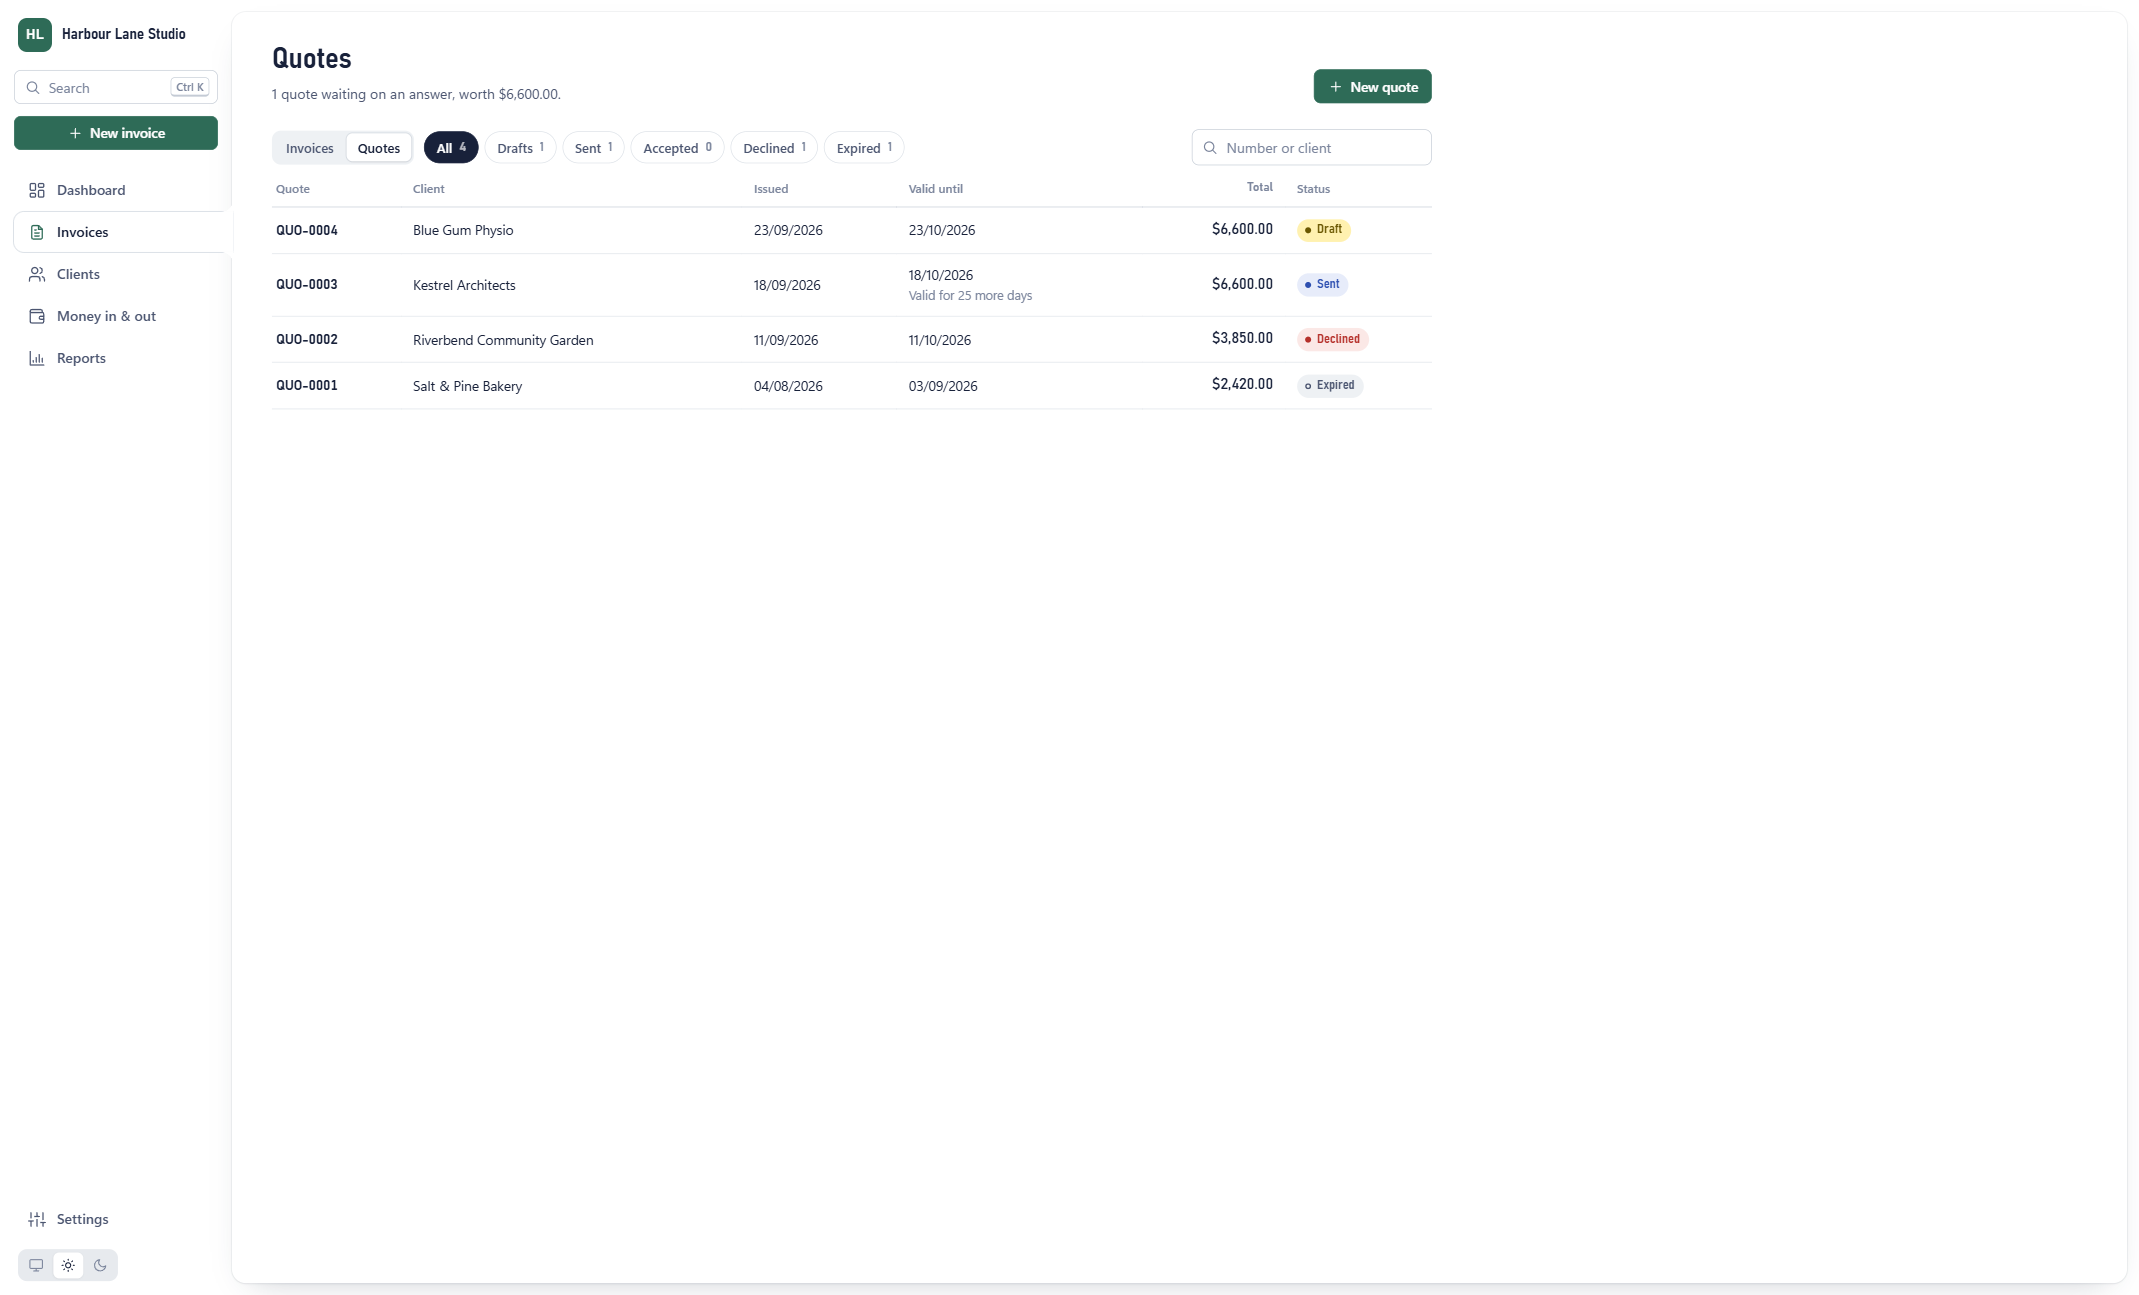
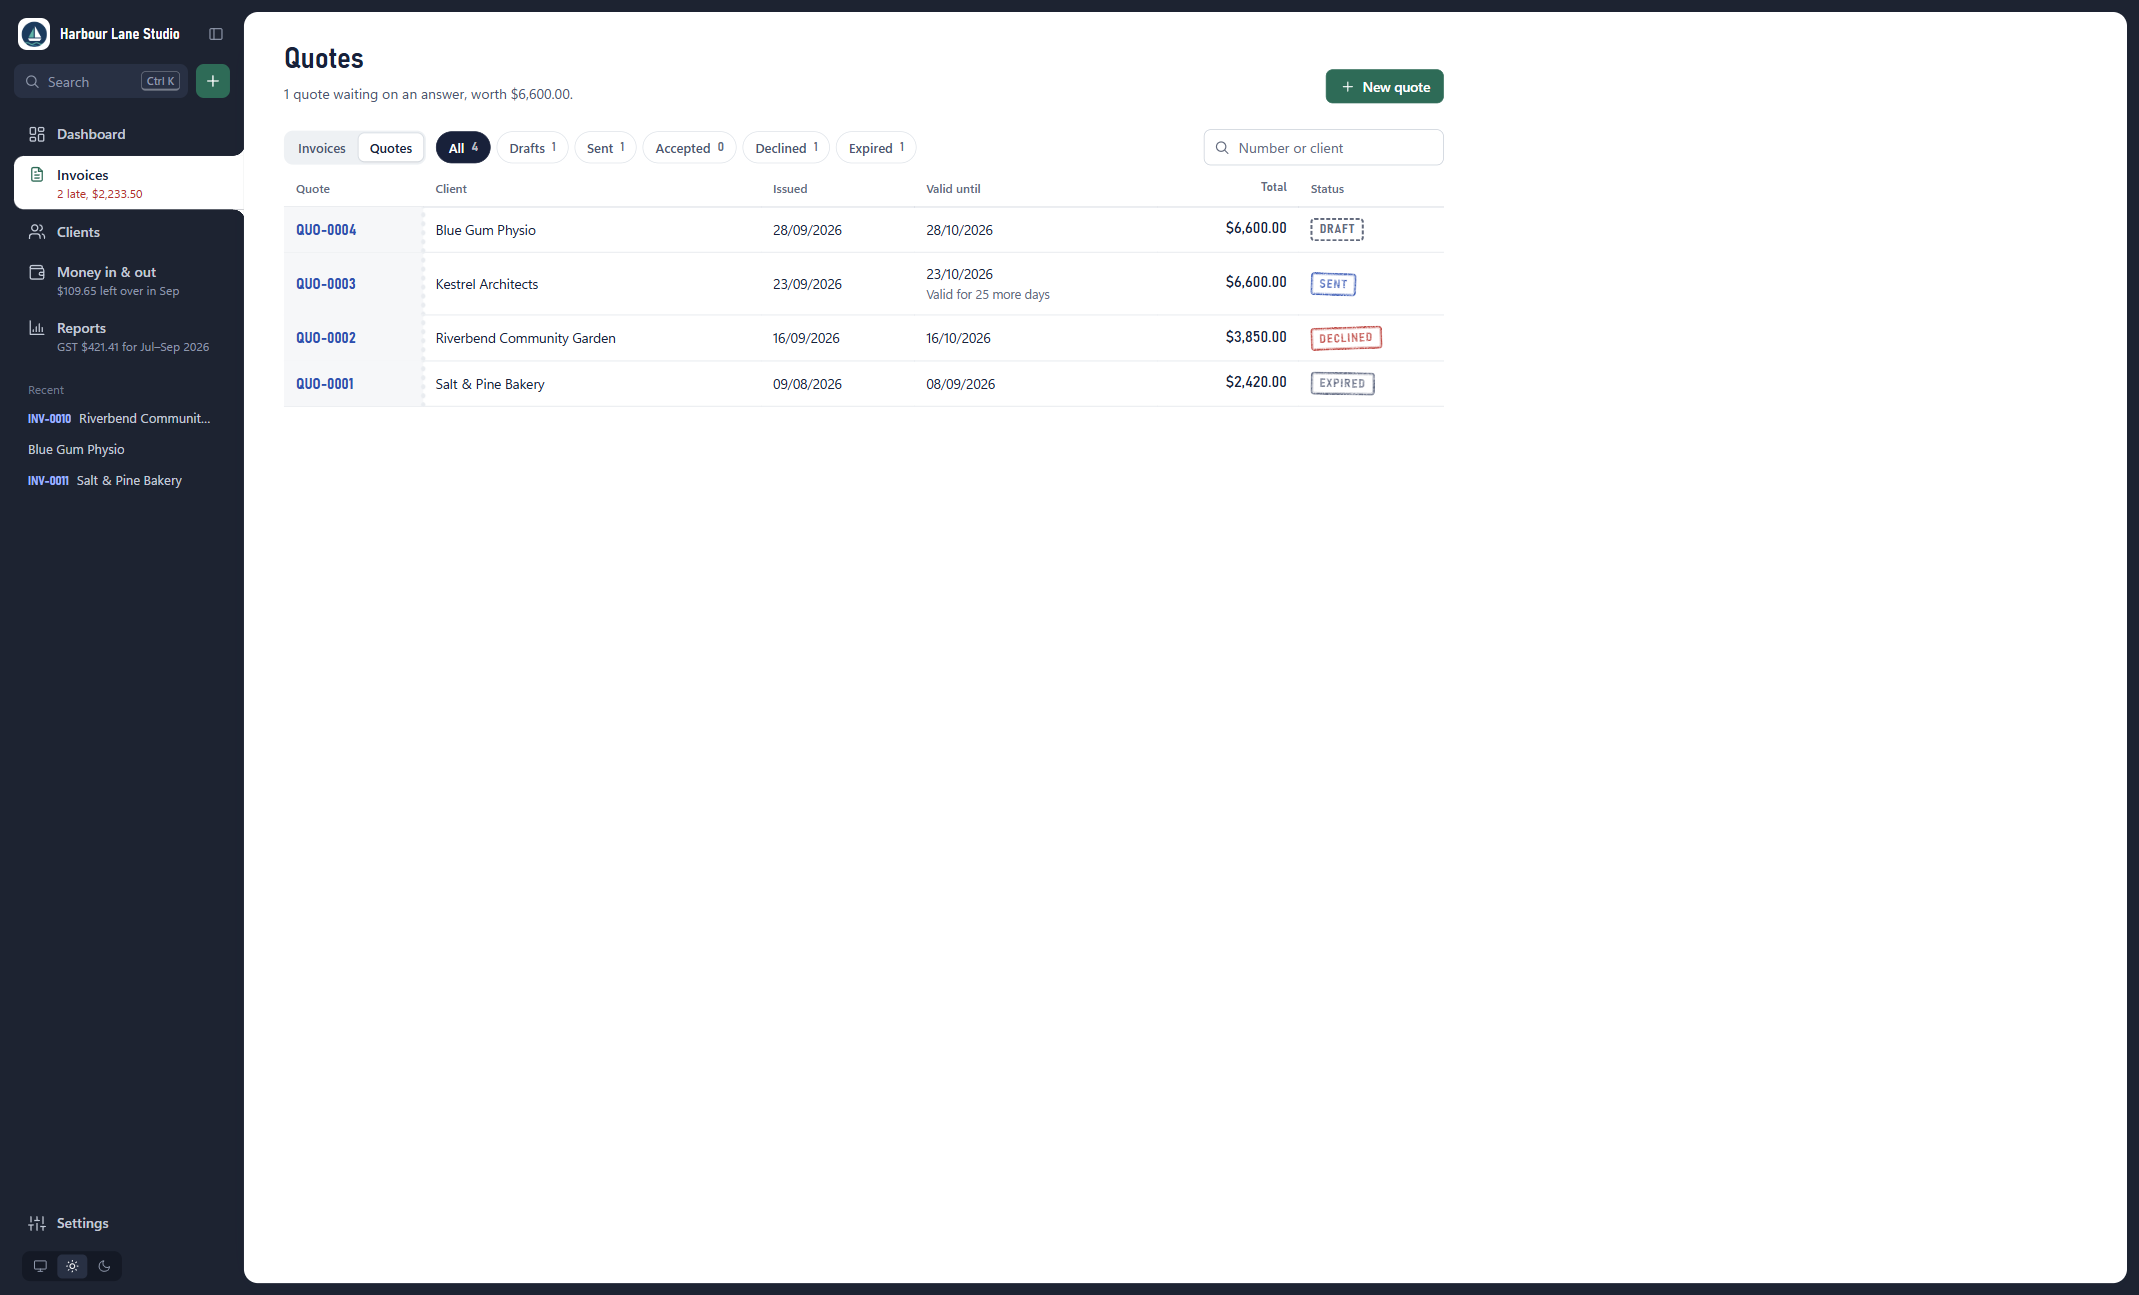
update screenshots for the new dashboard and menu

diff --git a/promo/site/index.html b/promo/site/index.html
@@ -351,14 +351,14 @@ footer { padding-block: 0 48px; display: flex; flex-wrap: wrap; justify-content:
       <div class="feature-copy">
         <span class="eyebrow">Getting paid</span>
         <h2>Know who owes you, and chase them politely</h2>
-        <p>Every invoice carries your ABN, the GST and the "Tax invoice" heading. The dashboard shows what's owed, what's overdue and your GST for the quarter.</p>
+        <p>Every invoice carries your ABN, the GST and the "Tax invoice" heading. Unpaid invoices hang on the dashboard at their due date, stamped with how late they are, above this month's cash book and your GST for the quarter.</p>
         <ul class="ticks">
           <li>Email an invoice in one click, with the PDF attached in classic Outlook</li>
           <li>Chase late payers with a friendly, firm or final reminder</li>
           <li>Quotes that turn into invoices, and invoices that repeat monthly</li>
         </ul>
       </div>
-      <img class="shot" src="img/dashboard.webp" width="1470" height="1295" alt="The dashboard showing $2,992.50 owed by clients, money in and out, profit for the financial year and GST for the July to September quarter">
+      <img class="shot" src="img/dashboard.webp" width="1470" height="1295" alt="The dashboard showing $2,992.50 owed by clients, two invoices stamped late on a rail of due dates, and September's cash book">
     </section>
 
     <section class="feature flip">
@@ -382,7 +382,7 @@ footer { padding-block: 0 48px; display: flex; flex-wrap: wrap; justify-content:
           <div><b>1B</b><span>GST on purchases</span></div>
         </div>
       </div>
-      <img class="shot" src="img/reports.webp" width="1500" height="1295" alt="The BAS worksheet for July to September 2026: G1 $4,757.84, 1A $431.36, 1B $93.95, GST to pay $337.41">
+      <img class="shot" src="img/reports.webp" width="1500" height="1295" alt="The BAS worksheet for July to September 2026: G1 $5,681.84, 1A $515.36, 1B $93.95, GST to pay $421.41">
     </section>
 
     <section class="countries" id="countries">

diff --git a/README.md b/README.md
@@ -14,7 +14,7 @@ country's GST, VAT or sales tax rules. It's a single file with nothing to
 install, and your data stays on your own computer. An optional
 [phone app](#phone-pilot) lets you snap receipts and start invoices on the go.
 
-![The dashboard, showing what clients owe, money in and out, and recent activity](docs/screenshots/dashboard.png)
+![The dashboard, with unpaid invoices hanging on a rail by due date above this month's cash book](docs/screenshots/dashboard.png)
 
 ## Download
 
@@ -81,24 +81,29 @@ The full notes for each version are on the [releases page](https://github.com/td
 - Drop a receipt photo or PDF onto the Money page and it fills in the amount,
   tax, date and supplier for you. It uses the text reader built into Windows,
   so nothing leaves your PC, and it only fills fields you haven't typed in.
-- Dashboard with outstanding and overdue totals, money in and out, profit for
-  the tax year, tax for the current return period and a 12-month chart.
+- A dashboard where each unpaid invoice hangs on a rail at its due date,
+  stamped with how many days late it is and with a button to send a reminder.
+  Below it are this month's money in and out on a cash book page, a 12-month
+  chart, profit for the tax year and tax for the current return period.
+- A side menu that shows what's late, what's left over this month and the tax
+  for the period, with your recent invoices and clients one click away. Press
+  [ to fold it down to icons.
 - Reports with your country's tax return worksheet and a profit and loss for
   any period or tax year, saved as PDF or CSV.
 - Your business details, logo (JPG, PNG or WebP up to 5 MB), bank details,
   accent colour, invoice numbering and payment terms, and a choice of three
   invoice layouts: classic, modern and minimal.
 - Clients with their own notes, website and a note printed on every invoice.
-- Each client shows how late they usually pay, and the dashboard shows what's
-  likely to come in over the next 30 days based on those habits.
+- Each client shows how late they usually pay, and the dashboard shows when
+  each unpaid invoice is likely to be paid based on those habits.
 - It learns from what you've already entered. Line items suggest what you last
   charged that client, and an expense picks the category you used last time
   for the same supplier.
 - Export invoices, or money in and out, as a CSV file for your accountant or
   Excel.
 - Search everything with Ctrl+K, which also runs commands like recording a
-  payment or switching theme. Ctrl+N starts a new invoice, Ctrl+S saves, and
-  ? lists every shortcut.
+  payment or switching theme. Ctrl+N starts a new invoice, Ctrl+S saves, [
+  folds the side menu and ? lists every shortcut.
 - Light and dark themes. On Windows 11 the window edges pick up your desktop
   colours, which you can turn off in Settings.
 - Right-click the taskbar icon to start a new invoice or add an expense or
@@ -162,9 +167,9 @@ The business and clients in these are made up.
 
 ![The GST return with boxes 5 to 15](docs/screenshots/gst-return.png)
 
-**Invoices, with drafts, overdue and repeating ones picked out**
+**Invoices, each stamped paid, sent, overdue or draft**
 
-![The invoice list with status filters](docs/screenshots/invoices.png)
+![The invoice list with status stamps and filters](docs/screenshots/invoices.png)
 
 **Quotes, and whether each client said yes**
 
